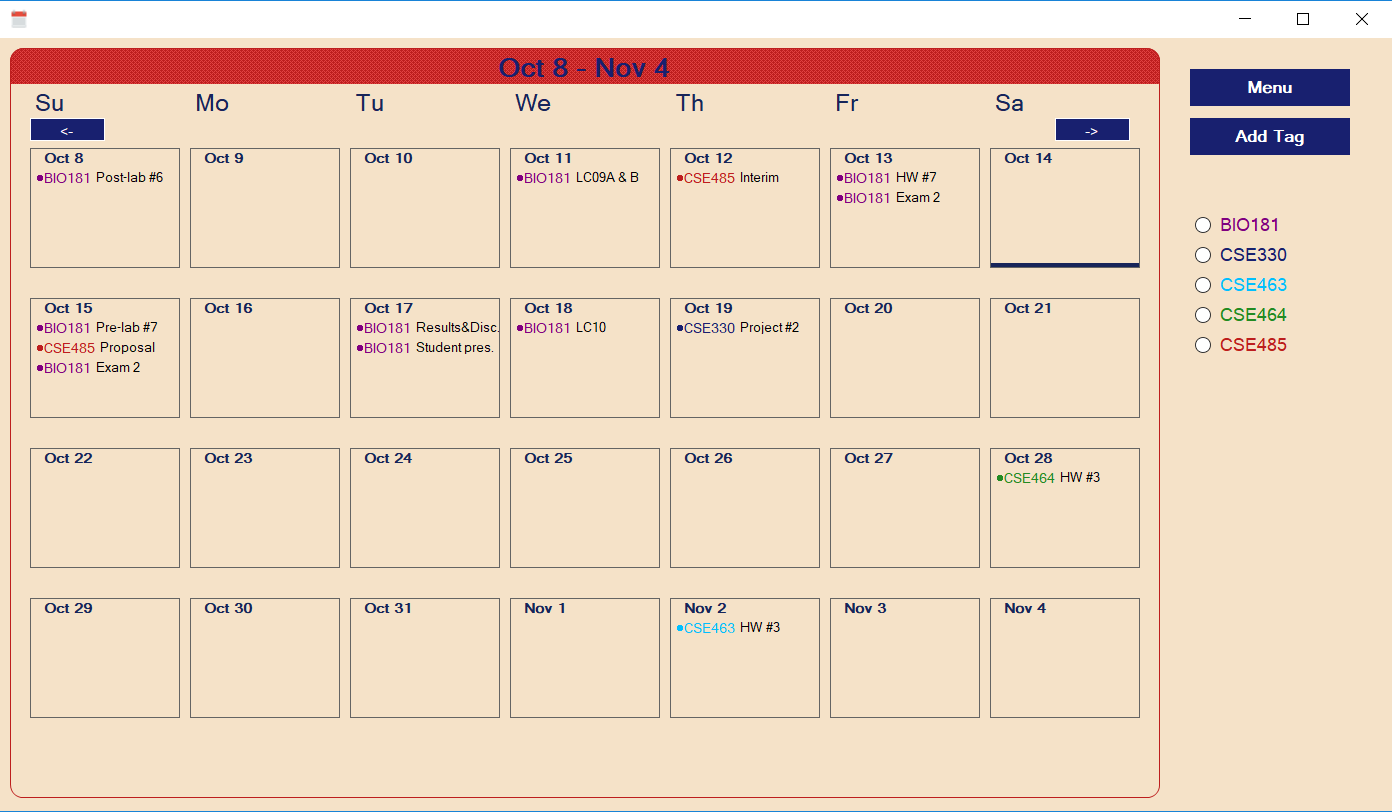
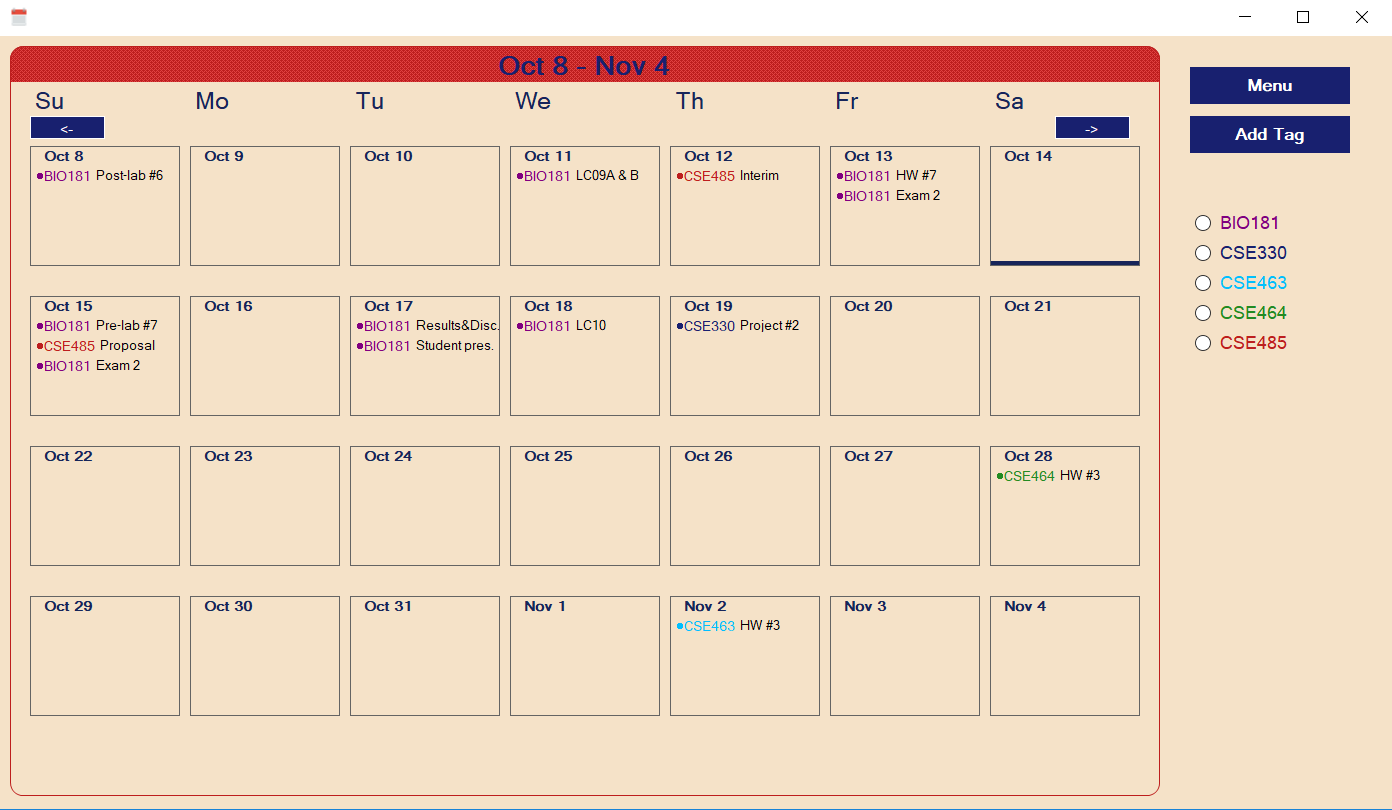
Cropped screenshot and updated README.md

diff --git a/README.md b/README.md
@@ -1,7 +1,9 @@
 # DeadlineScheduler
 Allows you to schedule events with a tag or without a tag, and saves to a local SQLite file.
 
-![Alt text](/DeadlineSchedulerExample.png "Example")
+Example:
+![Alt text](/DeadlineSchedulerExample.png?raw=true "Example")
+
 
 # To Do:
--Comment everything
+1. Comment everything
